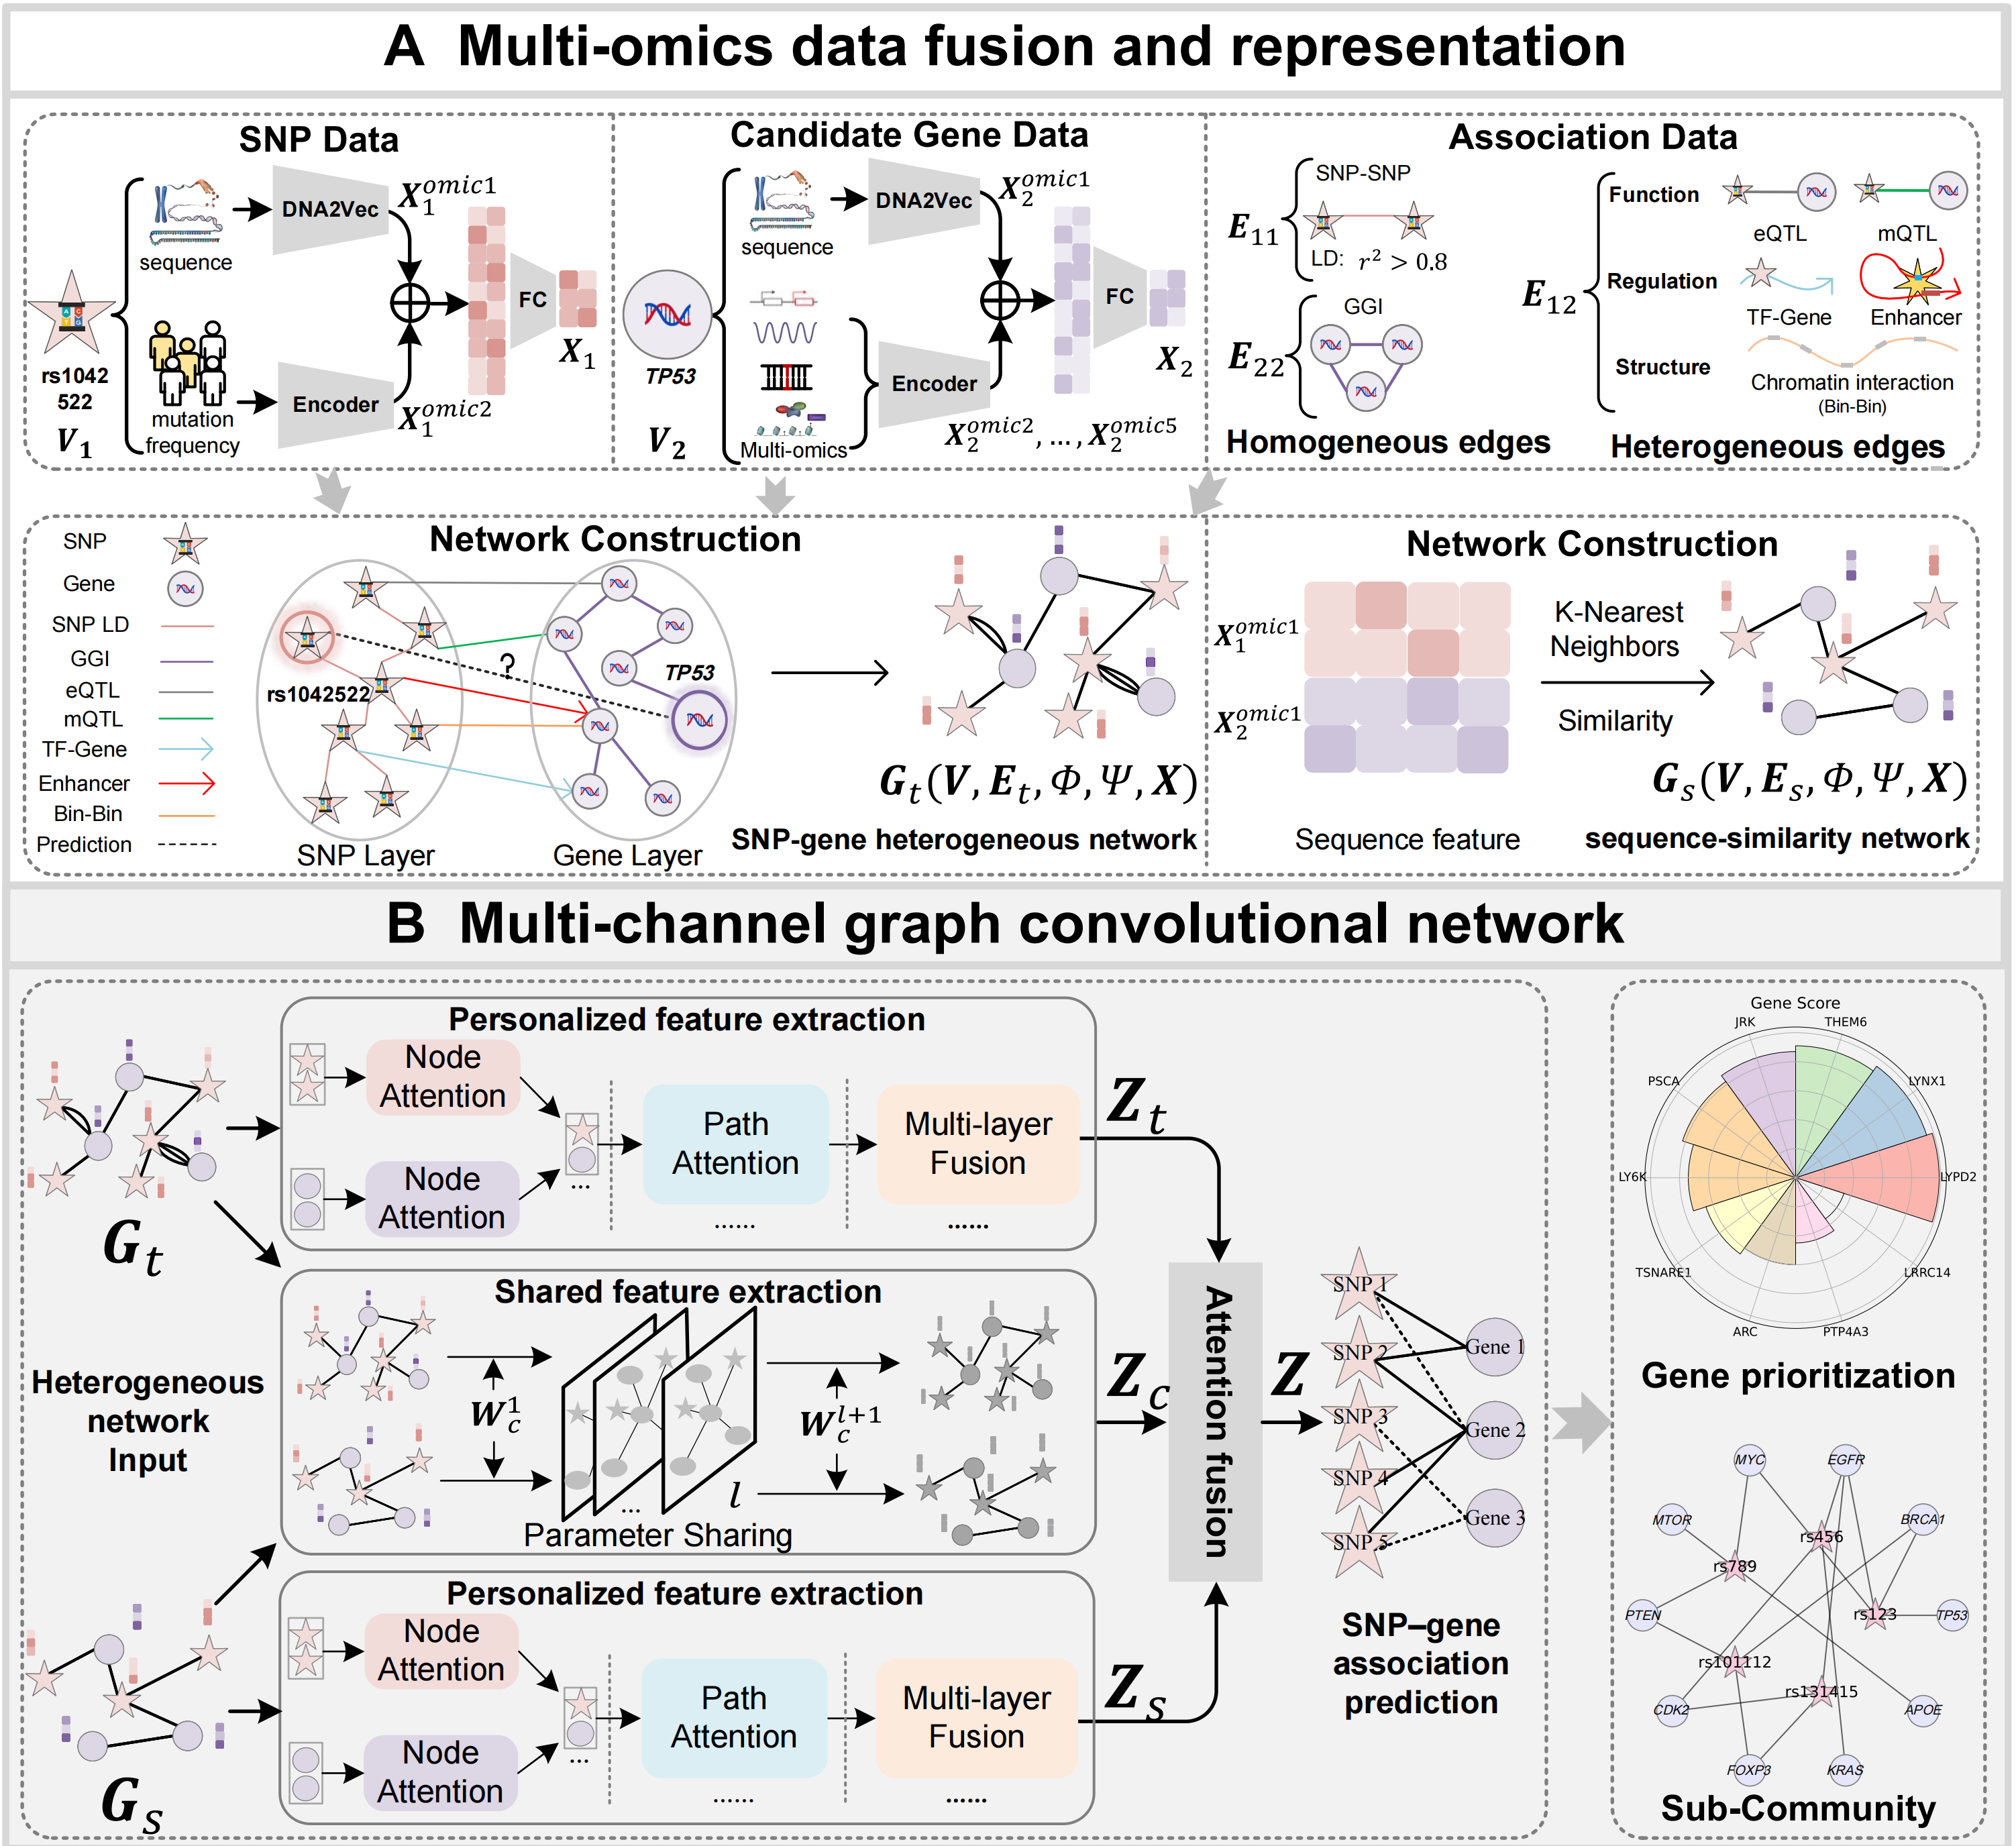
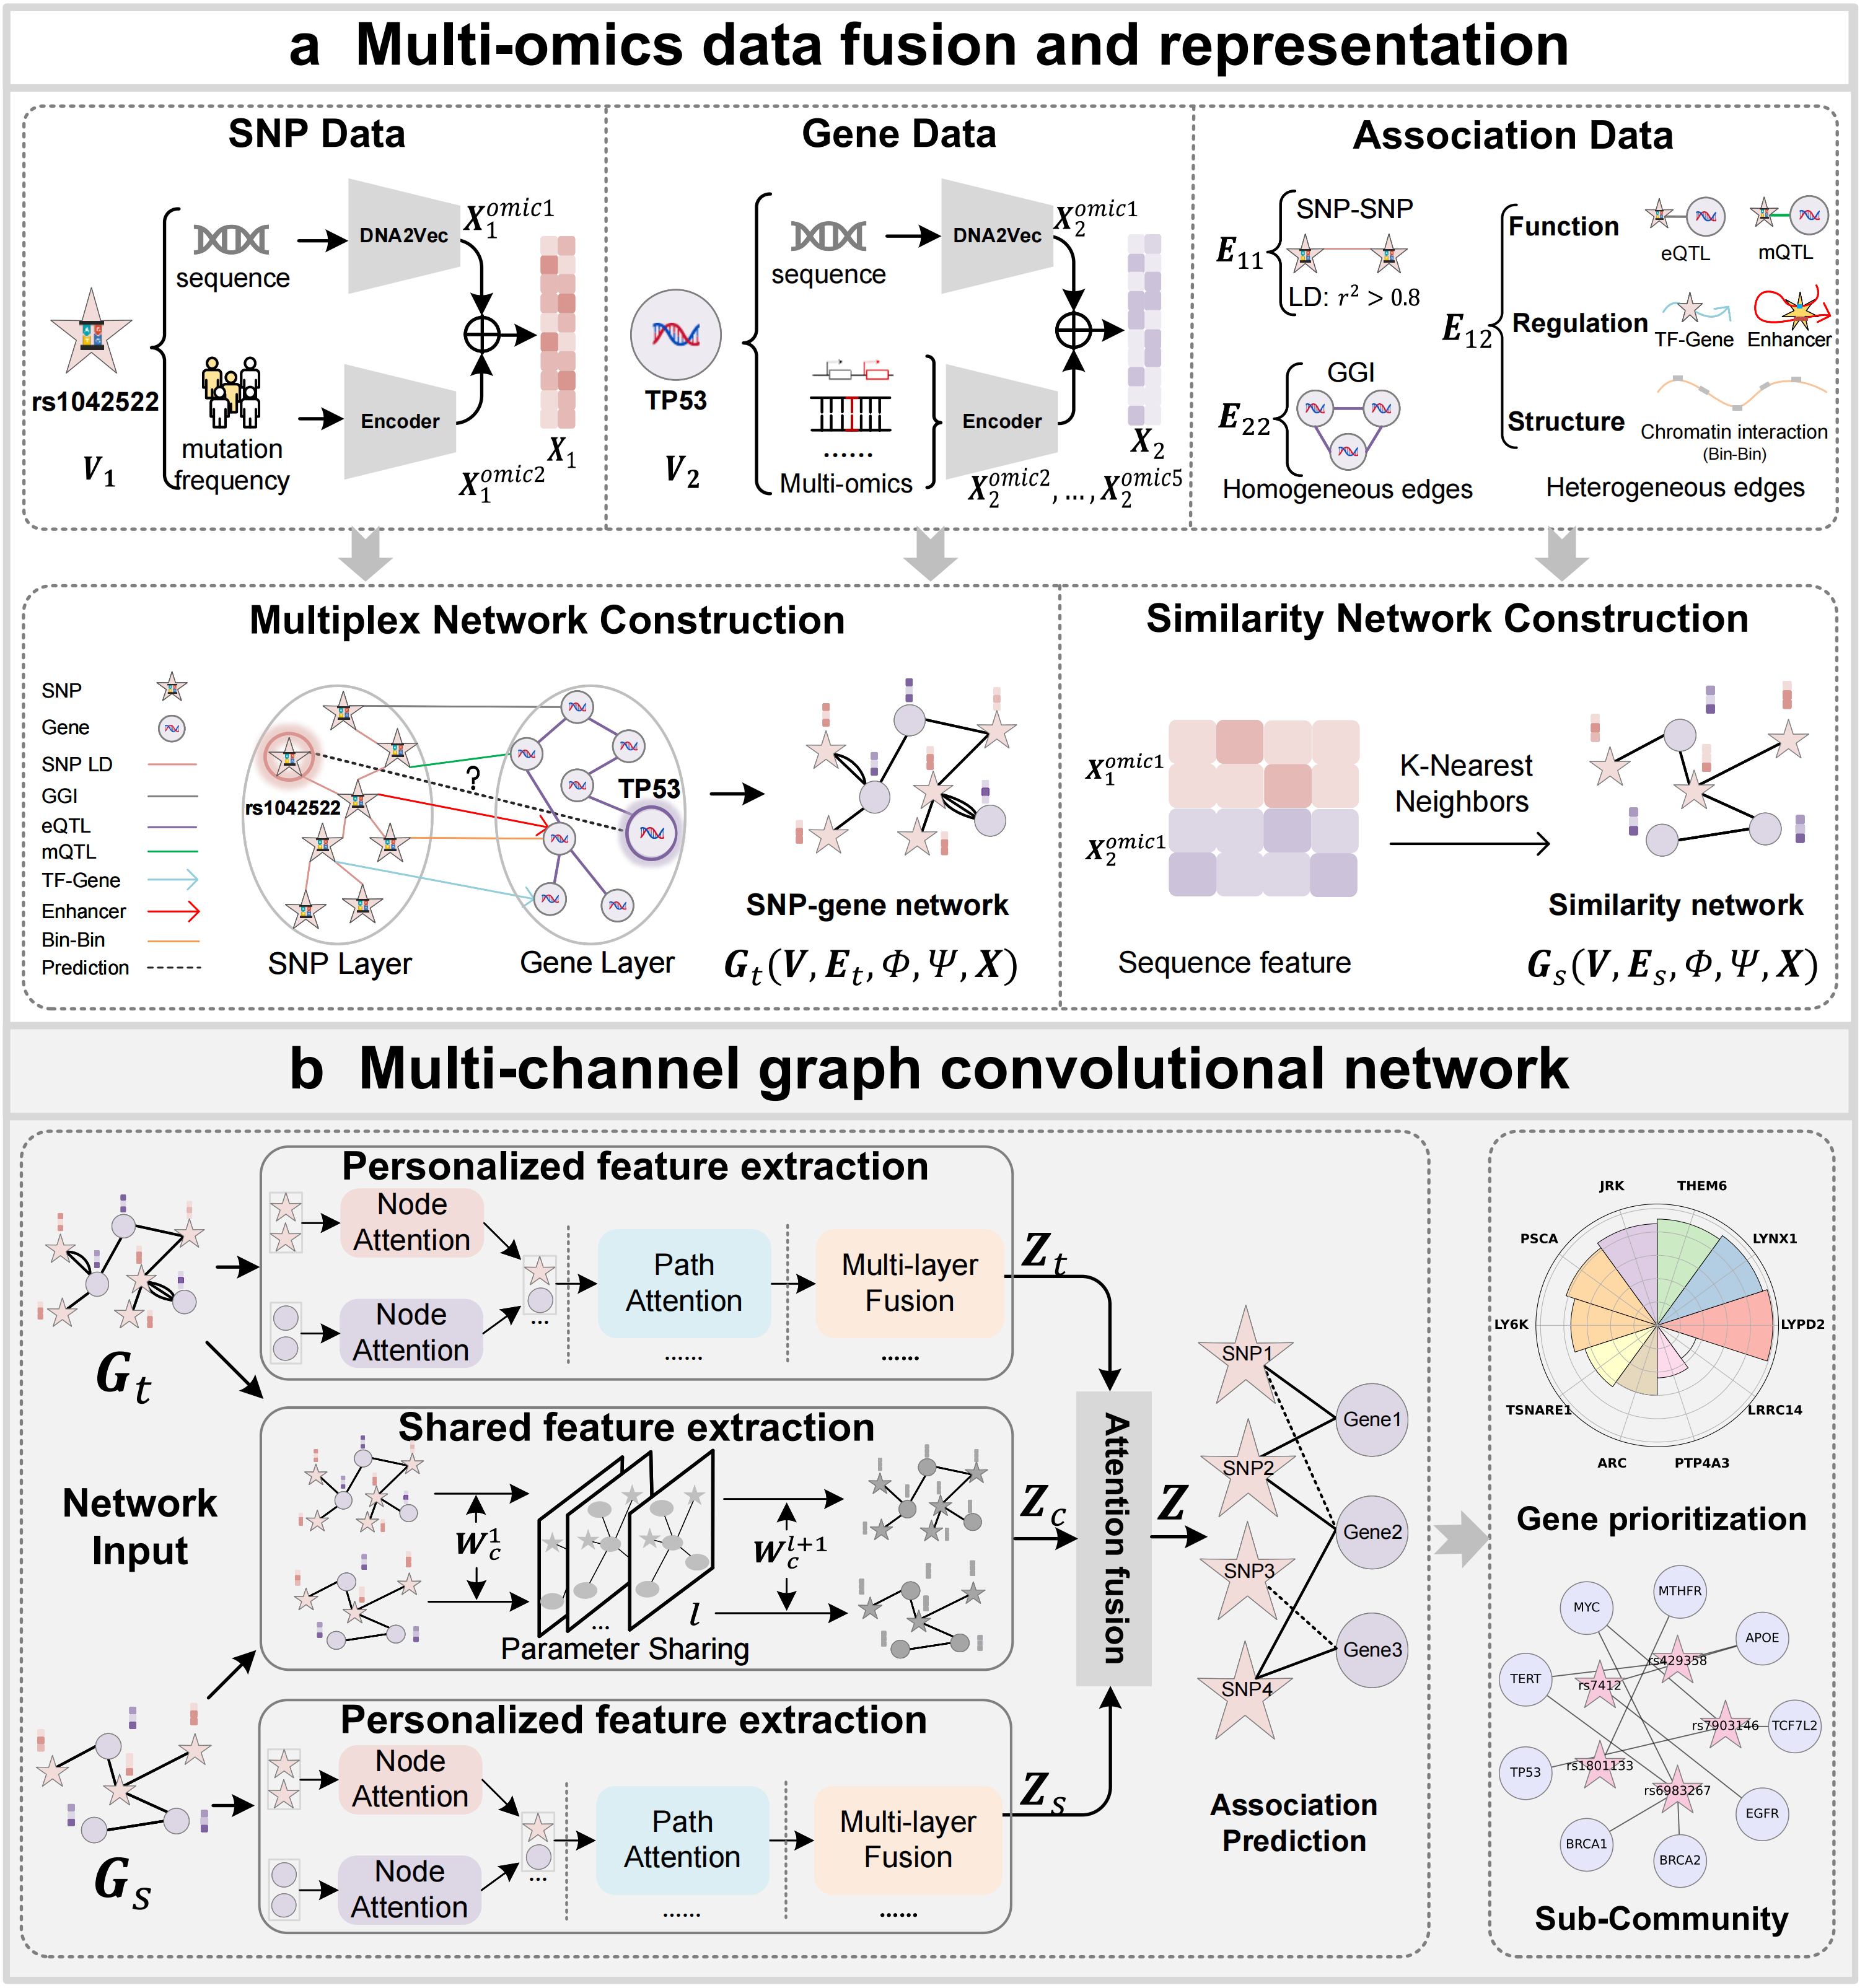
Rename RiskGNet to GP-ncVar across project.

Changed region(s): [[0.0, 0.0, 1.0, 1.0]]

diff --git a/README.md b/README.md
@@ -1,10 +1,10 @@
-# RiskGNet
+# GP-ncVar
 
 ## 1. Project overview
-RiskGNet is a graph neural network framework for predicting associations between single nucleotide polymorphisms (SNPs) and genes. It builds and trains a dual-graph model that leverages a real interaction graph and a feature-based (sequence/similarity) graph, and uses contrastive learning together with link prediction. The implementation uses PyTorch and PyTorch Geometric (PyG).
+GP-ncVar is a graph neural network framework for predicting associations between single nucleotide polymorphisms (SNPs) and genes. It builds and trains a dual-graph model that leverages a real interaction graph and a feature-based (sequence/similarity) graph, and uses contrastive learning together with link prediction. The implementation uses PyTorch and PyTorch Geometric (PyG).
 
 ## 2. Repository structure (key files)
-- `RiskGNet.py`: Main script containing model definitions and training loop with cross-validation (includes model classes, training, and evaluation logic).
+- `GP-ncVar.py`: Main script containing model definitions and training loop with cross-validation (includes model classes, training, and evaluation logic).
 - `Evaluation.py`: Script to compute ranking-based evaluation metrics (Precision@K, Recall@K, MAP@K, NDCG@K) from prediction outputs in `Result/`.
 - `STAD/`: Example dataset folder containing files required by the scripts:
   - `adj_real_2.txt`: Real adjacency matrix (upper-triangular or symmetric format).
@@ -18,15 +18,15 @@ RiskGNet is a graph neural network framework for predicting associations between
 - `Result/`: Output directory for prediction files. Example files: `prediction_0_STAD.txt` ... `prediction_4_STAD.txt` (one per CV fold/run).
 
 ## Method (Overview)
-The following summarizes the main idea of RiskGNet and points to a schematic (Figure 1) illustrating the framework.
+The following summarizes the main idea of GP-ncVar and points to a schematic (Figure 1) illustrating the framework.
 
-To address limitations in current studies, we propose RiskGNet, a multi-channel graph convolutional network (McGCN) framework for gene prioritization at GWAS variants. Specifically, RiskGNet is designed with three key points:
+To address limitations in current studies, we propose GP-ncVar, a multi-channel graph convolutional network (McGCN) framework for gene prioritization at GWAS variants. Specifically, GP-ncVar is designed with three key points:
 
 - (i) It explicitly models the synergistic effects of multiple loci rather than considering the impact of each SNP in isolation.
 - (ii) It systematically integrates diverse types of genetic relationships by constructing an SNP–gene heterogeneous network and a prior sequence-similarity network, thereby capturing regulatory mechanisms at different levels.
-- (iii) It introduces a McGCN to capture key genetic information from the SNP–gene heterogeneous network and the sequence-similarity prior network. The shared channel employs parameter sharing and a contrastive loss to achieve cross-network feature alignment. Meanwhile, the personalized channel incorporates a multi-level attention mechanism to capture key genetic information. Based on the above techniques, RiskGNet empowers the discovery of complex genetic relationships.
+- (iii) It introduces a McGCN to capture key genetic information from the SNP–gene heterogeneous network and the sequence-similarity prior network. The shared channel employs parameter sharing and a contrastive loss to achieve cross-network feature alignment. Meanwhile, the personalized channel incorporates a multi-level attention mechanism to capture key genetic information. Based on the above techniques, GP-ncVar empowers the discovery of complex genetic relationships.
 
-![Figure 1 — RiskGNet schematic](Result/fig1.png)
+![Figure 1 — GP-ncVar schematic](Result/fig1.png)
 
 ## 3. Requirements & dependencies
 Recommended Python: 3.8+.
@@ -57,15 +57,15 @@ pip install torch-geometric
 If `pip install torch-geometric` fails, follow the platform-specific installation instructions at https://pytorch-geometric.readthedocs.io/.
 
 ## 4. Quick start: training
-Run training from the repository root (where `RiskGNet.py` and `STAD/` are located):
+Run training from the repository root (where `GP-ncVar.py` and `STAD/` are located):
 
 ```bash
-python RiskGNet.py --dataset STAD --epochs 200 --in_dim 128 --hidden_dim 256 --out_dim 128 --dropout 0.4 --num_heads 4 --num_layers 4 --learning_rate 0.007 --temperature 0.1 --patience 10 --t 0.1 --k 3
+python GP-ncVar.py --dataset STAD --epochs 200 --in_dim 128 --hidden_dim 256 --out_dim 128 --dropout 0.4 --num_heads 4 --num_layers 4 --learning_rate 0.007 --temperature 0.1 --patience 10 --t 0.1 --k 3
 ```
 
 Notes on arguments:
 - `--dataset`: name of the dataset folder (default: `STAD`).
-- Other flags correspond to `args_parser()` inside `RiskGNet.py` and can be tuned as needed.
+- Other flags correspond to `args_parser()` inside `GP-ncVar.py` and can be tuned as needed.
 
 After training, the script will produce prediction files in `Result/` (for example `prediction_0_STAD.txt`, etc.). These files are used by the evaluation script.
 
@@ -85,8 +85,8 @@ python Evaluation.py
 ## 7. Troubleshooting
 - CUDA not found: install a PyTorch build that includes CUDA matching your system, or run on CPU.
 - PyG installation issues: use the PyG installation helper and choose the correct wheel for your PyTorch and CUDA versions.
-- File path or parsing issues: `RiskGNet.py` constructs dataset paths relative to its file location. Ensure `STAD/` exists and files use expected delimiters/encodings.
-- Shape/type mismatch errors: verify `node_feature.txt` and `feature_str.txt` have the expected shapes and that SNP/gene indexing matches assumptions in `RiskGNet.py`.
+- File path or parsing issues: `GP-ncVar.py` constructs dataset paths relative to its file location. Ensure `STAD/` exists and files use expected delimiters/encodings.
+- Shape/type mismatch errors: verify `node_feature.txt` and `feature_str.txt` have the expected shapes and that SNP/gene indexing matches assumptions in `GP-ncVar.py`.
 
 ## 8. License & contact
 No license file is included in this repository. Please confirm licensing with the project owner before reuse or redistribution.